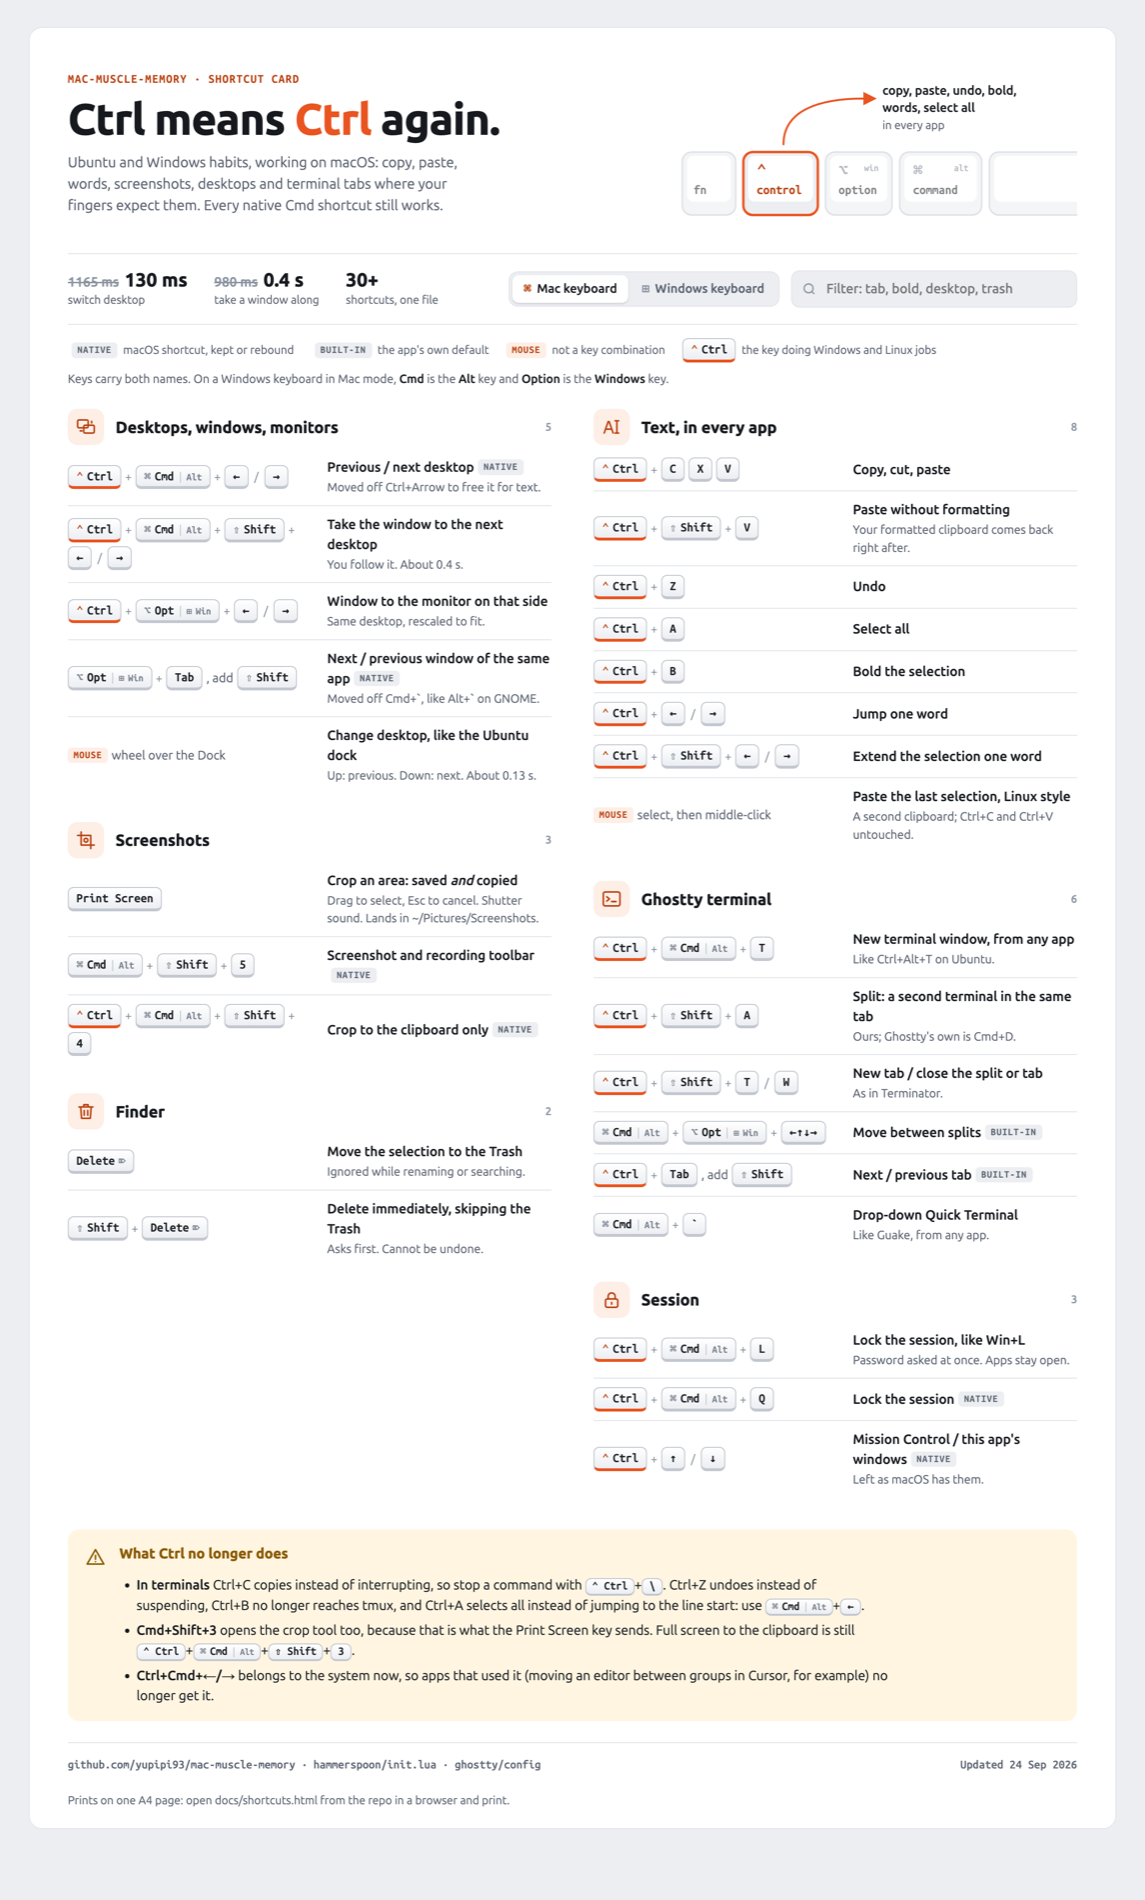
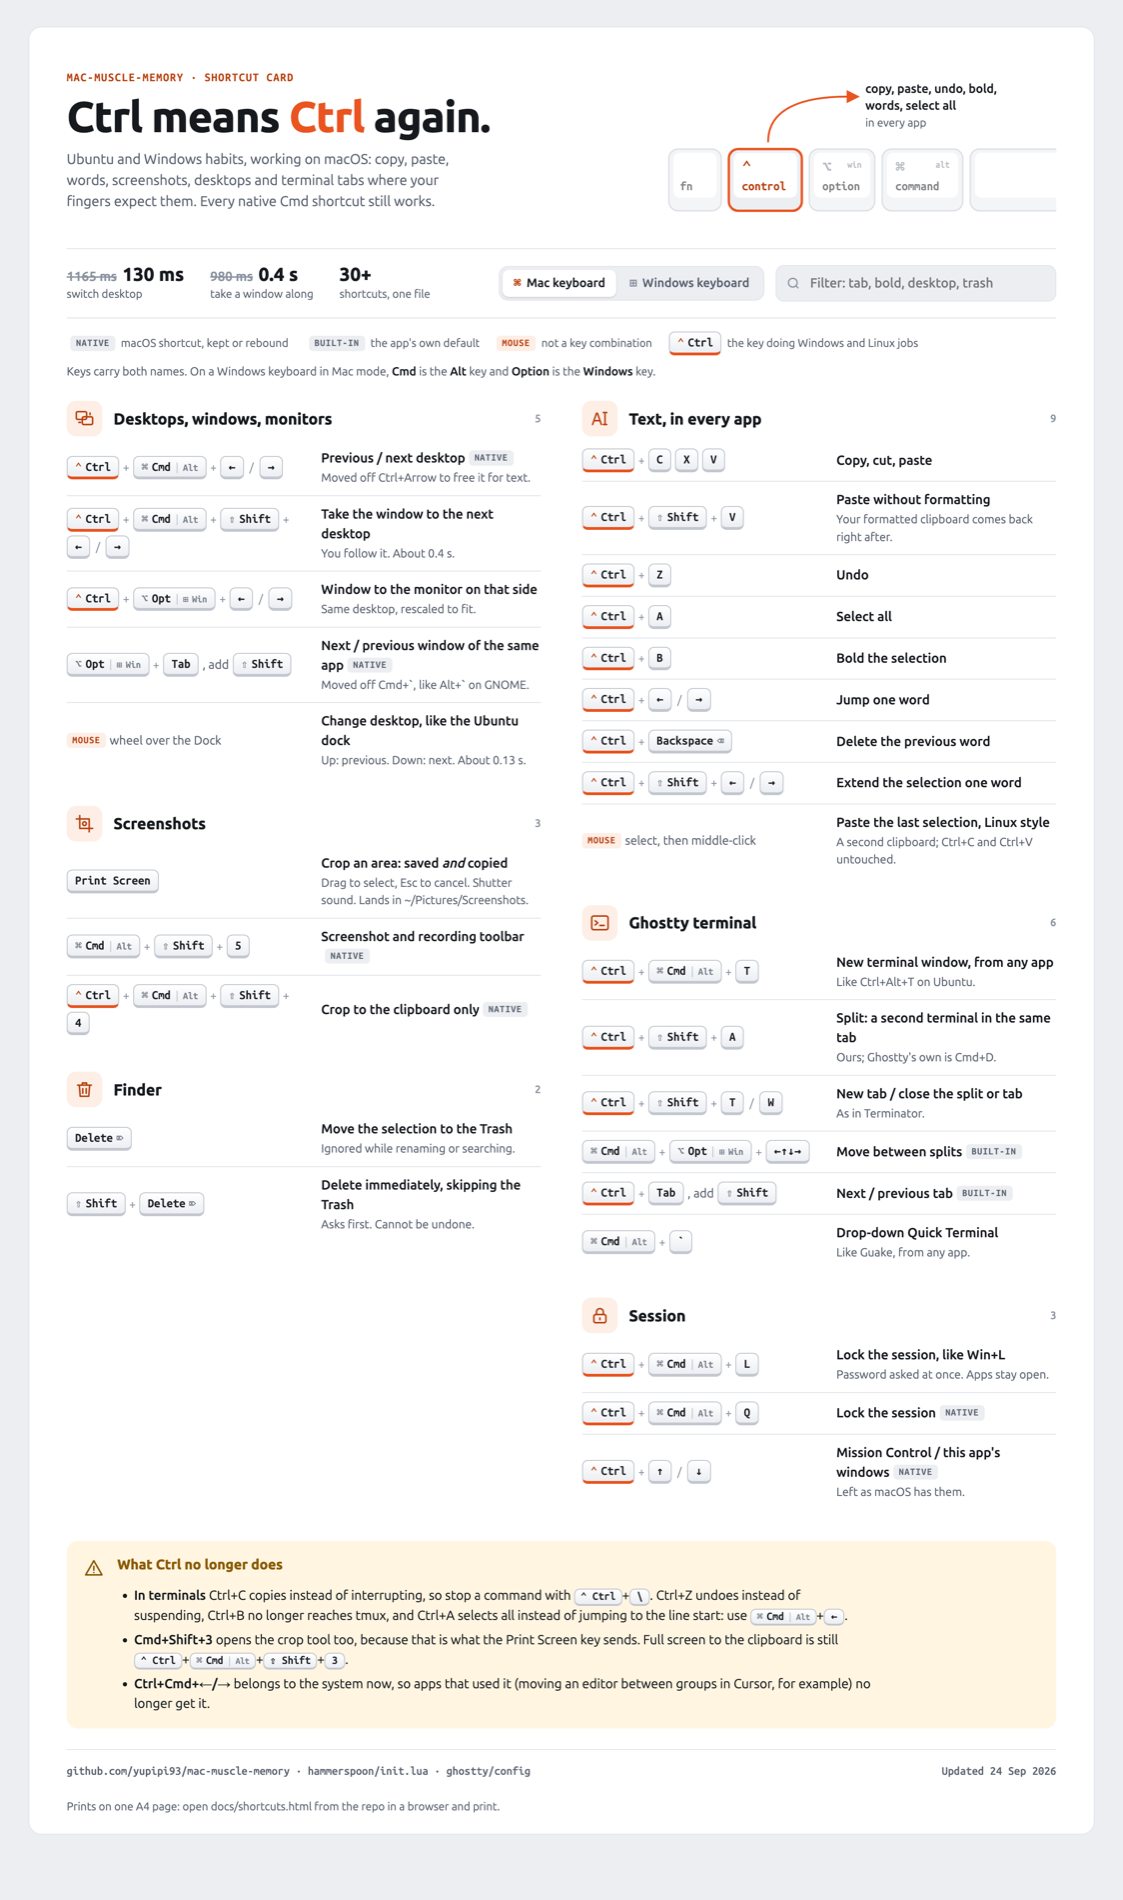
feat: Ctrl+Backspace deletes the previous word in every app
Sent as Option+Backspace, the macOS equivalent, through the same post-to-the-app mechanism
as the other Ctrl shortcuts. Verified in TextEdit; plain Backspace unaffected. Added to the
card, which still prints on one A4 page, and to the README screenshot.

diff --git a/docs/shortcuts.html b/docs/shortcuts.html
@@ -491,7 +491,7 @@
         <section class="group" aria-labelledby="g-text">
           <div class="group-head">
             <span class="badge"><svg viewBox="0 0 24 24" aria-hidden="true"><path d="M3.5 19 8 6h1.2L13.7 19M5.3 14.5h6.2"/><path d="M18 5v14M16 5h4M16 19h4"/></svg></span>
-            <h2 id="g-text">Text, in every app</h2><span class="count">8</span>
+            <h2 id="g-text">Text, in every app</h2><span class="count">9</span>
           </div>
           <div class="row" data-k="copy cut paste clipboard">
             <div class="keys"><kbd class="ctrl"><span class="g">⌃</span>Ctrl</kbd><i class="p">+</i><kbd>C</kbd><kbd>X</kbd><kbd>V</kbd></div>
@@ -516,6 +516,10 @@
           <div class="row" data-k="word jump move cursor">
             <div class="keys"><kbd class="ctrl"><span class="g">⌃</span>Ctrl</kbd><i class="p">+</i><kbd>←</kbd><i class="o">/</i><kbd>→</kbd></div>
             <div class="what">Jump one word</div>
+          </div>
+          <div class="row" data-k="delete word backspace erase">
+            <div class="keys"><kbd class="ctrl"><span class="g">⌃</span>Ctrl</kbd><i class="p">+</i><kbd>Backspace <span class="g">⌫</span></kbd></div>
+            <div class="what">Delete the previous word</div>
           </div>
           <div class="row" data-k="word select extend">
             <div class="keys"><kbd class="ctrl"><span class="g">⌃</span>Ctrl</kbd><i class="p">+</i><kbd><span class="g">⇧</span>Shift</kbd><i class="p">+</i><kbd>←</kbd><i class="o">/</i><kbd>→</kbd></div>

diff --git a/README.md b/README.md
@@ -37,6 +37,7 @@ the way so nobody has to rediscover it.
 | <kbd>Ctrl</kbd> <kbd>Shift</kbd> <kbd>V</kbd> | paste without formatting, in every app | a different shortcut per app, or none |
 | Select text, then middle-click | paste the last selection, Linux style, from a second clipboard that Ctrl+C / Ctrl+V never touch | nothing |
 | <kbd>Ctrl</kbd> <kbd>←</kbd> <kbd>→</kbd>, add <kbd>Shift</kbd> to select | jump and select by word | Option+Arrow |
+| <kbd>Ctrl</kbd> <kbd>Backspace</kbd> | delete the previous word | Option+Backspace |
 | <kbd>Print Screen</kbd> | crop an area, save it **and** copy it | no such key |
 | <kbd>Delete</kbd> / <kbd>Shift</kbd> <kbd>Delete</kbd> in Finder | move to Trash / delete immediately, with confirmation | Cmd+Backspace / Option+Cmd+Backspace |
 | Mouse wheel over the Dock | previous / next desktop, like the Ubuntu dock | nothing |

diff --git a/CHANGELOG.md b/CHANGELOG.md
@@ -88,6 +88,12 @@ have moved, one canvas per display, tunable via `HINT_DURATION` and `HINT_ALPHA`
 draw it, its speed is ours to choose, unlike the native animation. Measured cost: none, the
 switch still medians 130 ms.
 
+## 2026-09-24, Ctrl+Backspace deletes a word
+
+- **Ctrl+Backspace** deletes the previous word in every app, sent as Option+Backspace, as on
+  Windows and Ubuntu. Verified in TextEdit: `Uno dos tres` became `Uno dos `, and a plain
+  Backspace still removes a single character. On the card, still one A4 page.
+
 ## 2026-09-24, primary selection captures any text, editable or not
 
 - The capture only ran when the focus was on a text element, so selecting text in a web page

diff --git a/docs/settings.md b/docs/settings.md
@@ -154,6 +154,7 @@ Added 2026-09-23:
 | Shortcut | Does | How |
 |----------|------|-----|
 | **Ctrl+Z** | undo | Posted to the app as Cmd+Z, same mechanism as Ctrl+C. |
+| **Ctrl+Backspace** | delete the previous word | Posted as Option+Backspace. Verified in TextEdit: `Uno dos tres` became `Uno dos `; a plain Backspace still deletes one character. |
 | **Ctrl+A** | select all | Posted as Cmd+A. Verified in TextEdit: three typed lines, Ctrl+A then Cmd+C copied all three. |
 | **Ctrl+B** | bold | Posted as Cmd+B. Verified in TextEdit: selected text went from Helvetica to Helvetica-Bold. |
 | **Ctrl+Shift+V** | paste as plain text | See below. Matches Ctrl+Shift+V in Linux terminals. |
